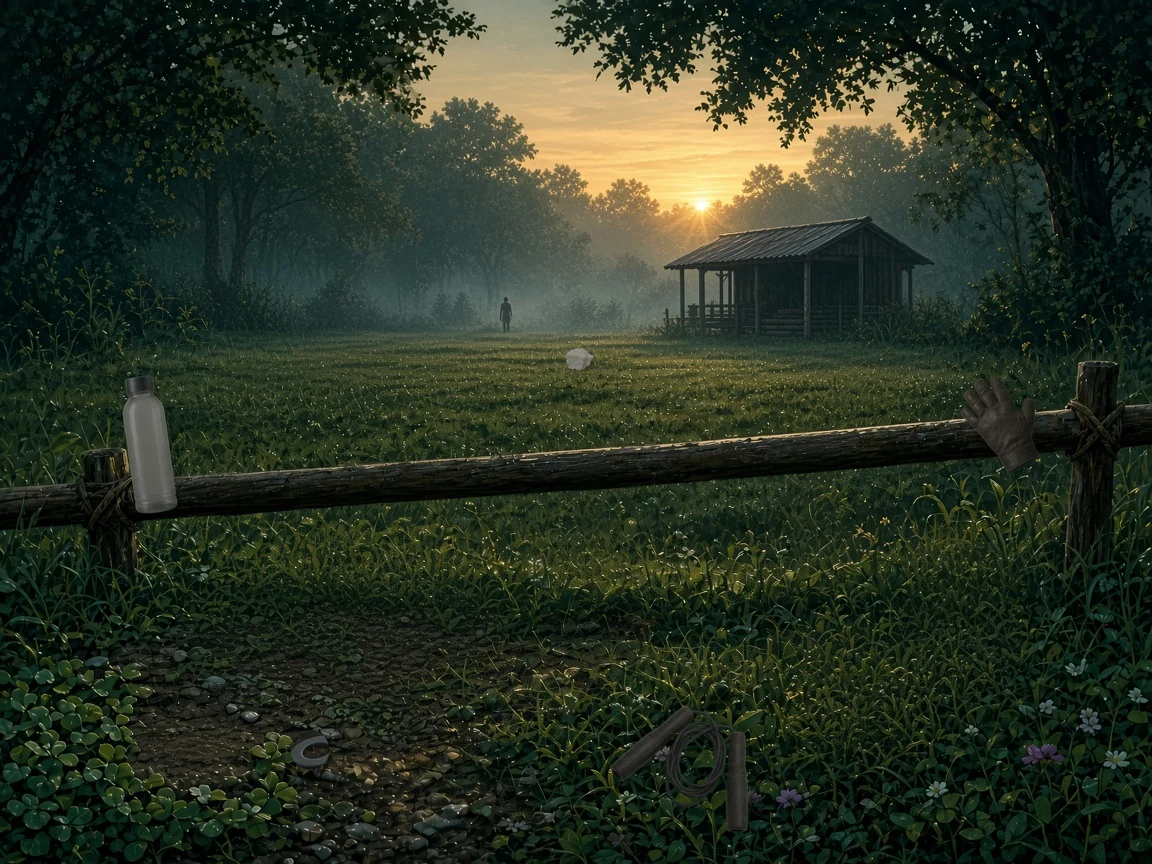
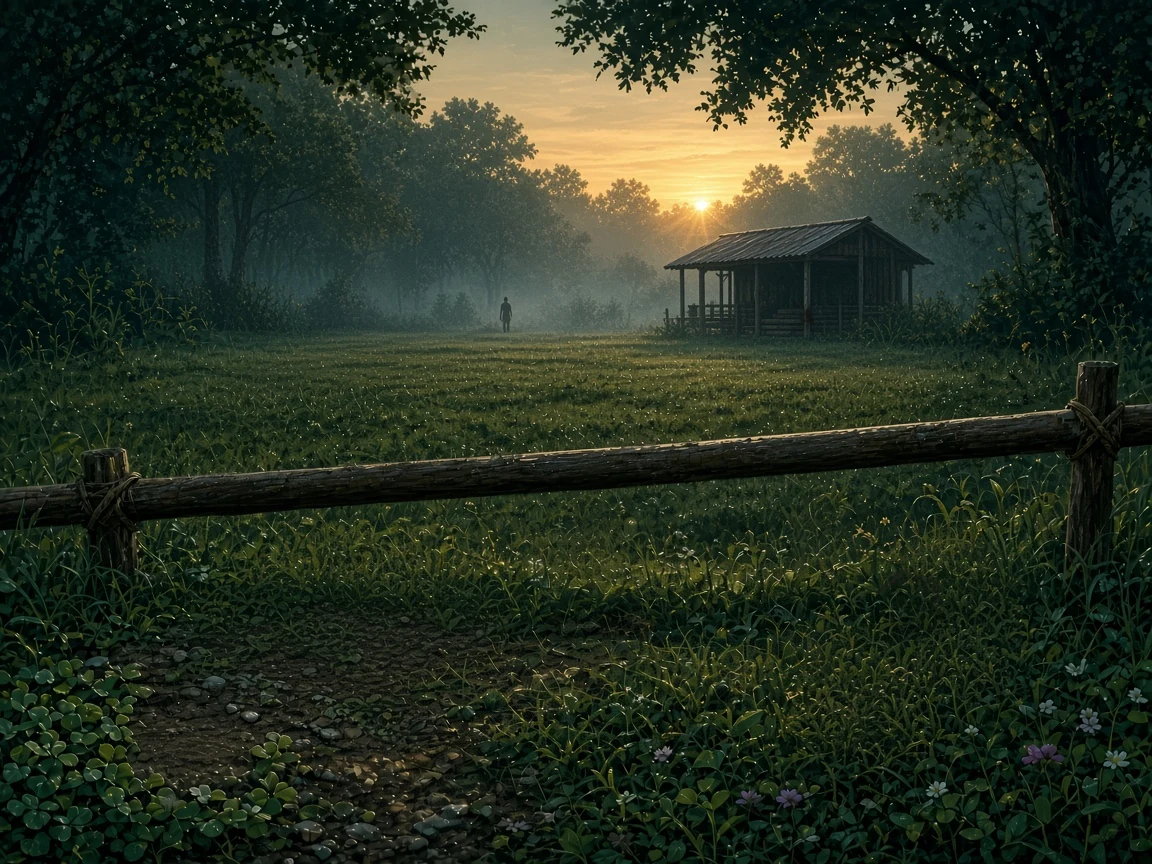
Hide the daily finds better, and tidy the Hide layout.
Re-place and blend the Nov 24-26 finds so they sit in grass, shadow and porch shade instead of on the fence. Give the daily line more space above the list, and move Hint and zoom to sit under the picture, with the breath ring after them.

diff --git a/index.html b/index.html
@@ -1715,7 +1715,7 @@ n.addEventListener("scroll",f,{passive:true});window.addEventListener("resize",f
   letter-spacing: .14em; text-transform: uppercase; color: var(--muted);
 }
 #todays-hide .th-line {
-  margin: 0 auto .8rem; max-width: 34rem;
+  margin: 0 auto 1.55rem; max-width: 34rem;
   font-size: clamp(1.5rem, 5.6vw, 2.2rem); font-weight: 800;
   line-height: 1.2; letter-spacing: -.02em; color: var(--text);
   text-wrap: balance;
@@ -1764,7 +1764,7 @@ n.addEventListener("scroll",f,{passive:true});window.addEventListener("resize",f
 }
 @keyframes th-found-pop { from { transform: translate(-50%,-50%) scale(.4); opacity: 0; } to { transform: translate(-50%,-50%) scale(1); opacity: 1; } }
 #todays-hide .th-breath {
-  margin: .8rem auto 0; width: 88px; height: 88px; position: relative;
+  margin: .85rem auto 0; width: 88px; height: 88px; position: relative;
 }
 #todays-hide .lead {
   margin: .4rem 0 0; font-size: 1.02rem; font-weight: 600;
@@ -1800,7 +1800,7 @@ n.addEventListener("scroll",f,{passive:true});window.addEventListener("resize",f
 #todays-hide .th-list button:focus-visible { outline: none; border-color: rgba(198,255,0,.75); }
 #todays-hide .th-tip { margin: .55rem 0 0; color: var(--muted); font-size: .92rem; }
 #todays-hide .th-msg { margin: .35rem 0 0; color: var(--lime, #C6FF00); font-weight: 600; min-height: 1.2em; }
-#todays-hide .th-row { display: flex; justify-content: center; gap: .45rem; flex-wrap: wrap; margin-top: .7rem; }
+#todays-hide .th-row { display: flex; justify-content: center; gap: .45rem; flex-wrap: wrap; margin-top: .65rem; }
 #todays-hide .th-btn {
   font: inherit; font-weight: 600; font-size: .82rem; cursor: pointer;
   background: transparent; color: var(--muted);
@@ -1827,6 +1827,13 @@ n.addEventListener("scroll",f,{passive:true});window.addEventListener("resize",f
       <div class="th-glow" id="todaysHideGlow" hidden></div>
       <div class="th-found-ring" id="todaysHideFound" hidden></div>
     </div>
+    <div class="th-row">
+      <button type="button" class="th-btn" id="todaysHideHint">Hint</button>
+      <button type="button" class="th-btn" id="todaysHideZoomOut" aria-label="Zoom out">−</button>
+      <button type="button" class="th-btn" id="todaysHideZoomIn" aria-label="Zoom in">+</button>
+      <button type="button" class="th-btn" id="todaysHideReset" hidden>Reset view</button>
+      <button type="button" class="th-share" id="todaysHideShare" hidden>Share</button>
+    </div>
     <div class="th-breath" id="todaysHideBreath" aria-hidden="true">
       <svg viewBox="0 0 88 88">
         <defs>
@@ -1844,13 +1851,6 @@ n.addEventListener("scroll",f,{passive:true});window.addEventListener("resize",f
     <p class="lead" id="todaysHideCue">Breathe and look.</p>
     <p class="th-tip" id="todaysHideTip">Pinch to look closer. Tap when you see it.</p>
     <p class="th-msg" id="todaysHideMsg" aria-live="polite"></p>
-    <div class="th-row">
-      <button type="button" class="th-btn" id="todaysHideHint">Hint</button>
-      <button type="button" class="th-btn" id="todaysHideZoomOut" aria-label="Zoom out">−</button>
-      <button type="button" class="th-btn" id="todaysHideZoomIn" aria-label="Zoom in">+</button>
-      <button type="button" class="th-btn" id="todaysHideReset" hidden>Reset view</button>
-      <button type="button" class="th-share" id="todaysHideShare" hidden>Share</button>
-    </div>
     <p class="fine">Stop if you get dizzy. Same 4-count as the cooling box.</p>
   </section>
 <section id="push">

diff --git a/test/todays-hide.test.js b/test/todays-hide.test.js
@@ -87,13 +87,20 @@ check("list and zoom controls are in the hide section",
   html.includes('id="todaysHideZoomOut"') && html.includes('id="todaysHideMarks"'));
 const hideChunk = html.slice(html.indexOf('id="todays-hide"'), html.indexOf('<section id="push">'));
 const at = (id) => hideChunk.indexOf(id);
-check("layout order is line, list, picture, then breath and the cue",
+check("layout order is kicker, line, list, picture, Hint and zoom, then breath and the cue",
+  hideChunk.indexOf("th-kicker") >= 0 &&
+  hideChunk.indexOf("th-kicker") < at('id="todaysHideLine"') &&
   at('id="todaysHideLine"') > 0 &&
   at('id="todaysHideLine"') < at('id="todaysHideList"') &&
   at('id="todaysHideList"') < at('id="todaysHideStage"') &&
-  at('id="todaysHideStage"') < at('id="todaysHideBreath"') &&
+  at('id="todaysHideStage"') < at('id="todaysHideHint"') &&
+  at('id="todaysHideHint"') < at('id="todaysHideZoomOut"') &&
+  at('id="todaysHideZoomOut"') < at('id="todaysHideZoomIn"') &&
+  at('id="todaysHideZoomIn"') < at('id="todaysHideBreath"') &&
   at('id="todaysHideBreath"') < at('id="todaysHideCue"') &&
   /id="todaysHideCue">Breathe and look\./.test(hideChunk));
+check("the daily line has extra space above the item pills",
+  /#todays-hide \.th-line \{[^}]*margin: 0 auto 1\.55rem/.test(html));
 check("the daily line is styled as the largest text in the section",
   /#todays-hide \.th-line \{[^}]*font-size: clamp\(1\.5rem/.test(html) &&
   /h2\.th-kicker \{[^}]*font-size: \.7rem/.test(html));
